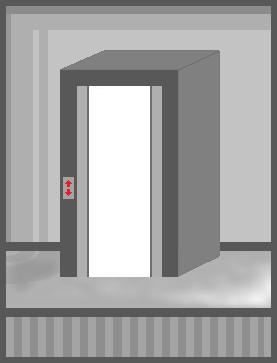
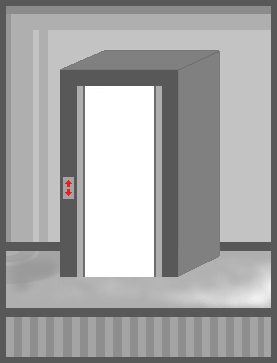
исправил баг с обновременной отрисовкой нескольких анимаций, сделана более плавная анимация дверей лифта (добавлено больше кадров анимации)

Changed region(s): [[0.2888, 0.2121, 0.3466, 0.7879], [0.5199, 0.2424, 0.5776, 0.7576]]

diff --git a/animations.py b/animations.py
@@ -30,17 +30,32 @@ class ElevatorAnimator:
         elif isinstance(animation, ElevatorCorrectionCordsAnimation):
             self.cords_animations.append(animation)
 
-    def add_later_on_funcs(self, func, delay, args=()):
+    def add_later_on_funcs(self, func, delay, args=None):
+        if args is None:
+            args = []
         self.later_on_funcs.append(LaterOnFunc(func, delay, self.painter.fps, args))
 
-    def change_rendering_of_layers(self):
-        self.painter.draw_main_hero_in_the_elevator = not self.painter.draw_main_hero_in_the_elevator
+    def change_rendering_of_layers(self, value=None):
+        if value is None:
+            self.painter.draw_main_hero_in_the_elevator = not self.painter.draw_main_hero_in_the_elevator
+        else:
+            self.painter.draw_main_hero_in_the_elevator = value
+
+    def emergency_finish_all_animations(self):
+        for animation in self.images_animations:
+            animation.emergency_finish()
+        for func in self.later_on_funcs:
+            func.emergency_finish()
+        for animation in self.cords_animations:
+            animation.emergency_finish()
+        self.images_animations = self.cords_animations = self.later_on_funcs = []
 
     def elevator_entering(self):
+        self.emergency_finish_all_animations()
         self.add_animation(
             ElevatorOpeningAnimation(self.painter.labyrinth.get_room(*self.painter.main_hero.get_cords()),
                                      self.painter.fps, self.painter.main_hero, _time_interval=0.2))
-        self.add_later_on_funcs(self.change_rendering_of_layers, delay=0.2)
+        self.add_later_on_funcs(self.change_rendering_of_layers, delay=0.2, args=[True])
         self.add_animation(ElevatorCorrectionCordsAnimation(self.painter, (self.max_elevator_correction_x,
                                                                            self.max_elevator_correction_y),
                                                             _time_interval=0.2, _fps=self.painter.fps))
@@ -49,13 +64,14 @@ class ElevatorAnimator:
                                      self.painter.fps, self.painter.main_hero, _time_interval=0.2, _delay=0.2))
 
     def elevator_exit(self):
+        self.emergency_finish_all_animations()
         self.add_animation(
             ElevatorOpeningAnimation(self.painter.labyrinth.get_room(*self.painter.main_hero.get_cords()),
                                      self.painter.fps, self.painter.main_hero, _time_interval=0.2))
         self.add_animation(
             ElevatorCorrectionCordsAnimation(self.painter, (0, 0), _time_interval=0.2, _fps=self.painter.fps,
                                              _delay=0.2))
-        self.add_later_on_funcs(self.change_rendering_of_layers, delay=0.2)
+        self.add_later_on_funcs(self.change_rendering_of_layers, delay=0.2, args=[False])
         self.add_animation(
             ElevatorClosingAnimation(self.painter.labyrinth.get_room(*self.painter.main_hero.get_cords()),
                                      self.painter.fps, self.painter.main_hero, _time_interval=0.2,
@@ -63,17 +79,20 @@ class ElevatorAnimator:
 
     def update(self):
         for animation in self.images_animations:
-            animation.update()
             if animation.done:
-                del animation
+                self.images_animations.remove(animation)
+            else:
+                animation.update()
         for animation in self.cords_animations:
-            animation.update()
             if animation.done:
-                del animation
+                self.cords_animations.remove(animation)
+            else:
+                animation.update()
         for func in self.later_on_funcs:
-            func.update()
             if func.done:
-                del func
+                self.later_on_funcs.remove(func)
+            else:
+                func.update()
 
 
 class ElevatorCorrectionCordsAnimation:
@@ -95,6 +114,12 @@ class ElevatorCorrectionCordsAnimation:
         self.variable_y += self.variable_step_y
         self.painter.update_elevator_correction_cords(self.variable_x, self.variable_y)
 
+    def emergency_finish(self):
+        self.variable_x = self.end_value_cords[0]
+        self.variable_y = self.end_value_cords[1]
+        self.painter.update_elevator_correction_cords(self.variable_x, self.variable_y)
+        self.done = True
+
     def update(self):
         self.time += self.dt
         if self.delay <= self.time <= self.delay + self.time_interval and not self.done:
@@ -104,7 +129,9 @@ class ElevatorCorrectionCordsAnimation:
 
 
 class LaterOnFunc:
-    def __init__(self, _func, _time_interval, _fps, _args=()):
+    def __init__(self, _func, _time_interval, _fps, _args=None):
+        if _args is None:
+            _args = []
         self.func = _func
         self.time_interval = _time_interval
         self.args = _args
@@ -116,36 +143,14 @@ class LaterOnFunc:
         self.done = True
         self.func(*self.args)
 
+    def emergency_finish(self):
+        self.execute()
+
     def update(self):
         self.time += self.dt
         if self.time_interval <= self.time:
             if not self.done:
                 self.execute()
-
-
-# class ElevatorAnimator:
-#
-#     def get_animation(self, animation_id):
-#         for animation in self.images_and_cords_animations:
-#             if animation.id == animation_id:
-#                 return animation
-#
-#     def elevator_entering(self):
-#         elevator_room = self.labyrinth.get_room(self.main_hero.x, self.main_hero.y, self.main_hero.z)
-#         self.images_and_cords_animations.append(ElevatorOpeningAnimation(elevator_room, self.fps, self.main_hero))
-#
-#     def elevator_exit(self):
-#         elevator_room = self.labyrinth.get_room(self.main_hero.x, self.main_hero.y, self.main_hero.z)
-#         new_animation = ElevatorOpeningAnimation(elevator_room, self.fps, self.main_hero)
-#         self.add_animation(new_animation)
-#
-#         # потом сделать чтобы он сначала открывался, потом закрывался
-#
-#     def enter_exit_in_elevator(self):
-#         if self.main_hero.inside_elevator:
-#             self.elevator_entering()
-#         else:
-#             self.elevator_exit()
 
 
 class ImageAnimation:
@@ -189,6 +194,11 @@ class ImageAnimation:
             pass
         # при нелинейной анимации можно будет изменять время cool_count
 
+    def emergency_finish(self):
+        self.active_surf_number = self.frames_count
+        self.active_surf = self.frame_surfaces[-1]
+        self.finish()
+
     def finish(self):
         self.done = True
 
@@ -205,12 +215,16 @@ class ElevatorOpeningAnimation(ImageAnimation):
 
     def __init__(self, _obj, _fps, _main_hero, _time_interval, _delay=0):
         self.main_hero = _main_hero
-        self.frames_files = ["assets/elevator/close_elevator.png", "assets/elevator/closing_elevator_9.png",
-                             "assets/elevator/closing_elevator_8.png", "assets/elevator/closing_elevator_7.png",
-                             "assets/elevator/closing_elevator_6.png", "assets/elevator/closing_elevator_5.png",
-                             "assets/elevator/closing_elevator_4.png", "assets/elevator/closing_elevator_3.png",
-                             "assets/elevator/closing_elevator_2.png", "assets/elevator/closing_elevator_1.png",
-                             "assets/elevator/open_elevator.png"]
+        self.frames_files = ["assets/elevator/close_elevator.png", "assets/elevator/closing_elevator_18.png",
+                             "assets/elevator/closing_elevator_17.png", "assets/elevator/closing_elevator_16.png",
+                             "assets/elevator/closing_elevator_15.png", "assets/elevator/closing_elevator_14.png",
+                             "assets/elevator/closing_elevator_13.png", "assets/elevator/closing_elevator_12.png",
+                             "assets/elevator/closing_elevator_11.png", "assets/elevator/closing_elevator_10.png",
+                             "assets/elevator/closing_elevator_9.png", "assets/elevator/closing_elevator_8.png",
+                             "assets/elevator/closing_elevator_7.png", "assets/elevator/closing_elevator_6.png",
+                             "assets/elevator/closing_elevator_5.png", "assets/elevator/closing_elevator_4.png",
+                             "assets/elevator/closing_elevator_3.png", "assets/elevator/closing_elevator_2.png",
+                             "assets/elevator/closing_elevator_1.png", "assets/elevator/open_elevator.png"]
         self.main_hero = _main_hero
         super().__init__(_obj, self.frames_files, _time_interval, _fps, _delay)
 
@@ -230,7 +244,11 @@ class ElevatorClosingAnimation(ImageAnimation):
                              "assets/elevator/closing_elevator_4.png", "assets/elevator/closing_elevator_5.png",
                              "assets/elevator/closing_elevator_6.png", "assets/elevator/closing_elevator_7.png",
                              "assets/elevator/closing_elevator_8.png", "assets/elevator/closing_elevator_9.png",
-                             "assets/elevator/close_elevator.png"]
+                             "assets/elevator/closing_elevator_10.png", "assets/elevator/closing_elevator_11.png",
+                             "assets/elevator/closing_elevator_12.png", "assets/elevator/closing_elevator_13.png",
+                             "assets/elevator/closing_elevator_14.png", "assets/elevator/closing_elevator_15.png",
+                             "assets/elevator/closing_elevator_16.png", "assets/elevator/closing_elevator_17.png",
+                             "assets/elevator/closing_elevator_18.png", "assets/elevator/close_elevator.png"]
         self.main_hero = _main_hero
         super().__init__(_obj, self.frames_files, _time_interval, _fps, _delay)
 
